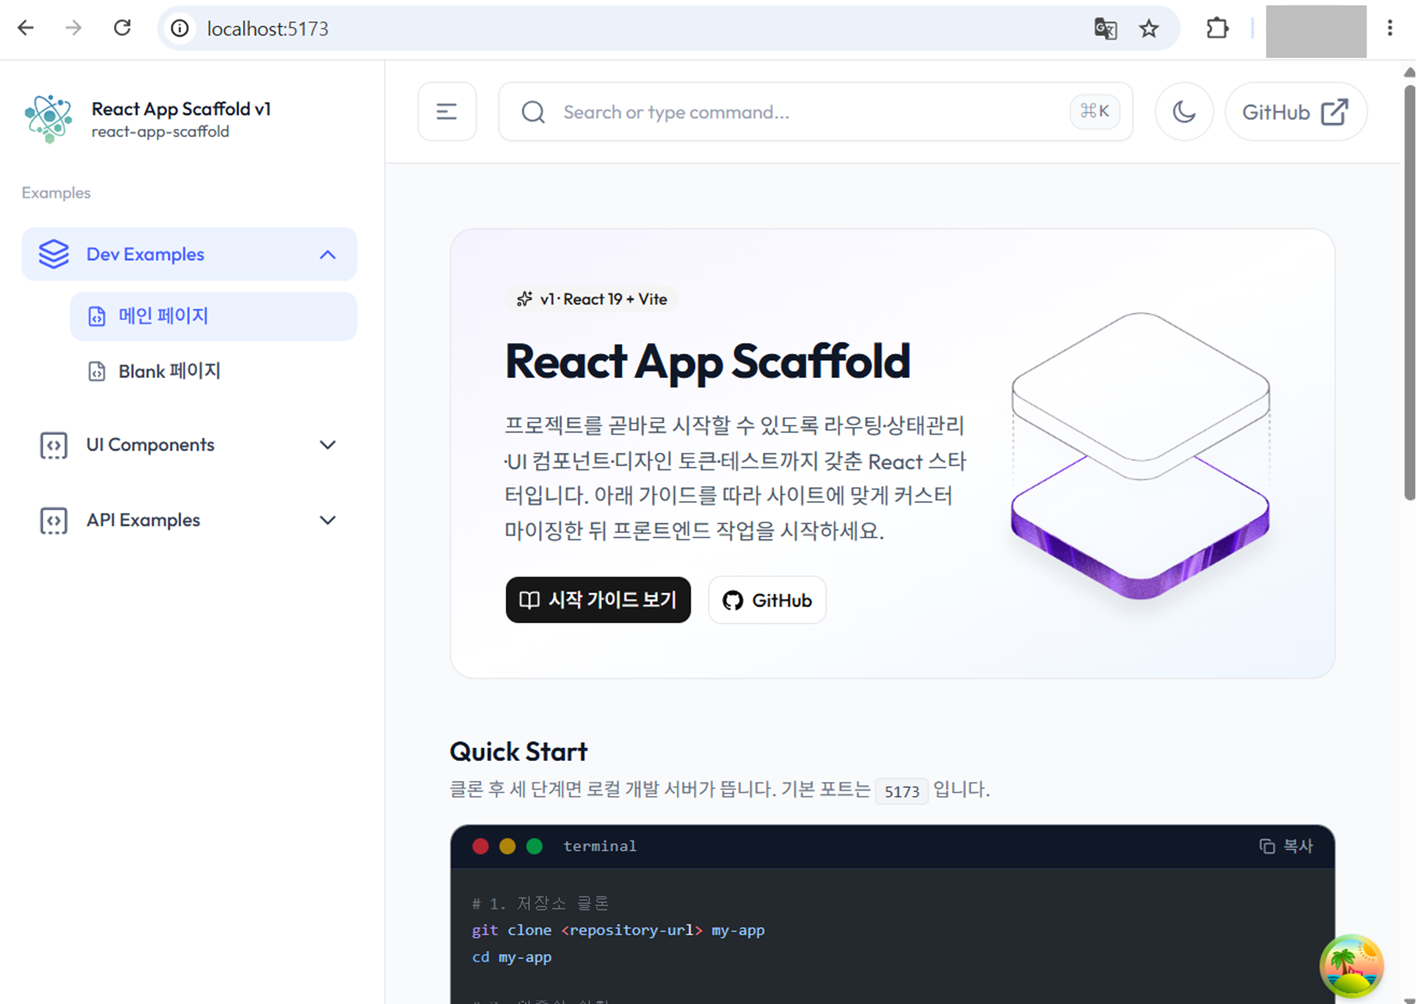
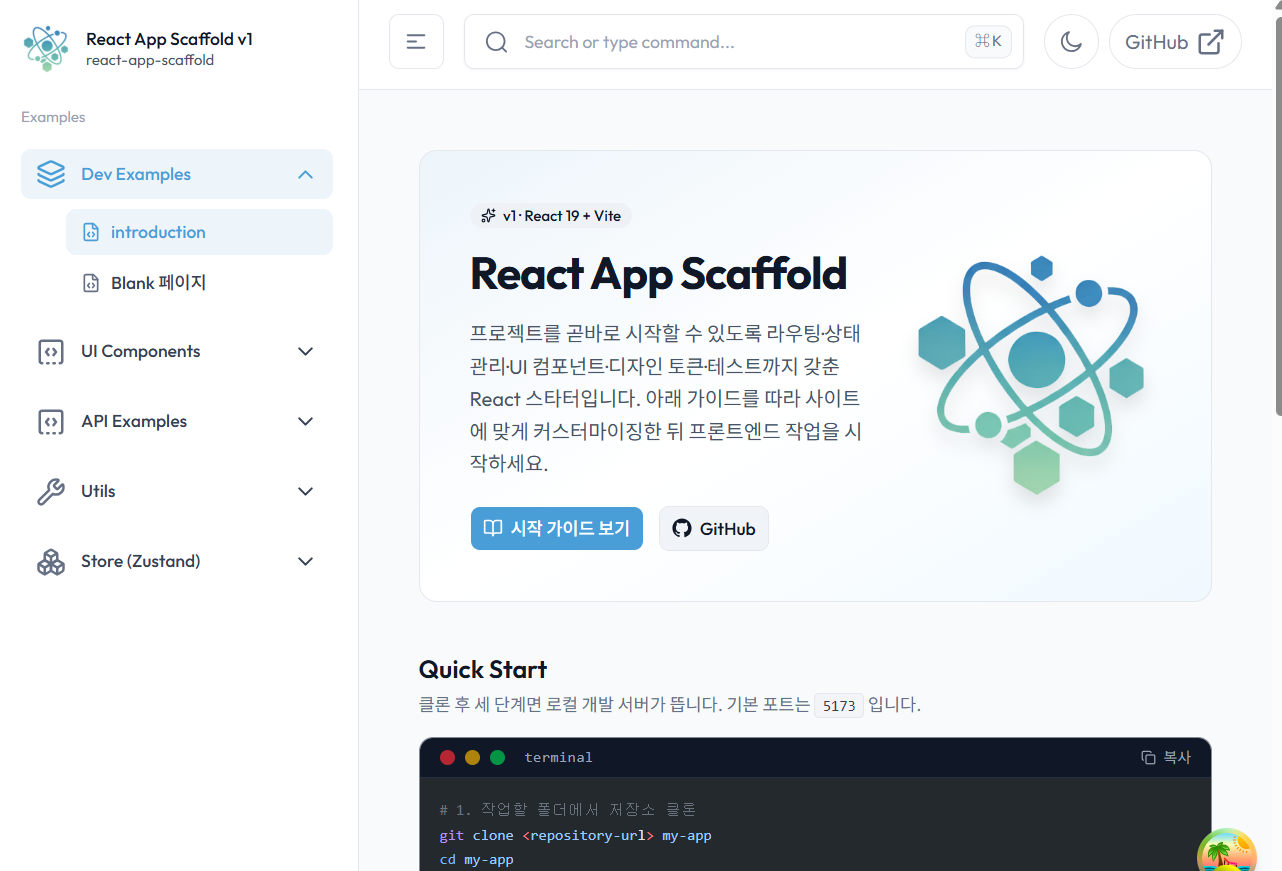
설정파일 분리 및 개발환경구성 페이지 수정

diff --git a/src/config/site-config.ts b/src/config/site-config.ts
@@ -11,10 +11,10 @@
  *   3) 문서에서 <Var k="키이름" /> 으로 참조하면 됩니다.
  */
 
-export type SiteConfigKey = 'siteName' | 'fileServerPath';
+export type SiteConfigKey = "siteName" | "fileServerPath" | "gitRepoUrl";
 
 /** 값의 성격. 렌더링 방식(링크/코드/복사버튼)을 결정합니다. */
-export type SiteConfigFieldKind = 'text' | 'path' | 'url';
+export type SiteConfigFieldKind = "text" | "path" | "url";
 
 export interface SiteConfigField {
   key: SiteConfigKey;
@@ -31,28 +31,37 @@ export interface SiteConfigField {
 
 export const SITE_CONFIG_FIELDS: SiteConfigField[] = [
   {
-    key: 'siteName',
-    label: '사이트 명',
-    description: '이 가이드가 배포된 프로젝트(현장) 이름',
-    kind: 'text',
+    key: "siteName",
+    label: "사이트 명",
+    description: "이 가이드가 배포된 프로젝트(현장) 이름",
+    kind: "text",
     required: false,
-    placeholder: '(사이트 미설정)',
+    placeholder: "(사이트 미설정)",
   },
   {
-    key: 'fileServerPath',
-    label: '설치파일 제공 경로',
+    key: "fileServerPath",
+    label: "설치파일 제공 경로",
     description:
-      'Node.js / Git / VSCode / Chrome 등 오프라인 설치 파일이 올라가 있는 파일서버 경로',
-    kind: 'path',
+      "Node.js / Git / VSCode / Chrome 등 오프라인 설치 파일이 올라가 있는 파일서버 경로",
+    kind: "path",
     required: true,
-    placeholder: '/aaaa/bbbbb/Frontend',
+    placeholder: "/aaaa/bbbbb/Frontend",
+  },
+  {
+    key: "gitRepoUrl",
+    label: "Git 레포지토리 주소",
+    description:
+      "개발 코드를 내려받는 Git 저장소 주소. 폐쇄망에서는 사내 GitLab 등 내부 주소로 교체합니다.",
+    kind: "url",
+    required: true,
+    placeholder: "Scaffold 레포지토리 주소",
   },
 ];
 
 export type SiteConfigValues = Record<SiteConfigKey, string>;
 
 /** static/ 하위에 배포되는 런타임 설정 파일 이름 */
-export const SITE_CONFIG_FILENAME = 'site-config.json';
+export const SITE_CONFIG_FILENAME = "site-config.json";
 
 /** site-config.json 을 읽기 전(또는 읽기 실패 시) 사용하는 기본값 */
 export const DEFAULT_SITE_CONFIG: SiteConfigValues = SITE_CONFIG_FIELDS.reduce(
@@ -71,8 +80,8 @@ export function getSiteConfigField(
 
 /** 비어 있거나 배포 직후 기본값 그대로면 "아직 현장 값이 안 들어온 것"으로 봅니다. */
 export function isUnsetValue(field: SiteConfigField, value: string): boolean {
-  const trimmed = (value ?? '').trim();
-  return trimmed === '' || trimmed === field.placeholder;
+  const trimmed = (value ?? "").trim();
+  return trimmed === "" || trimmed === field.placeholder;
 }
 
 /**
@@ -81,15 +90,15 @@ export function isUnsetValue(field: SiteConfigField, value: string): boolean {
  * 화면이 깨지지 않고 기본값으로 표시됩니다.
  */
 export function mergeSiteConfig(raw: unknown): SiteConfigValues {
-  const merged: SiteConfigValues = {...DEFAULT_SITE_CONFIG};
-  if (!raw || typeof raw !== 'object') {
+  const merged: SiteConfigValues = { ...DEFAULT_SITE_CONFIG };
+  if (!raw || typeof raw !== "object") {
     return merged;
   }
 
   const source = raw as Record<string, unknown>;
   SITE_CONFIG_FIELDS.forEach((field) => {
     const value = source[field.key];
-    if (typeof value === 'string' && value.trim() !== '') {
+    if (typeof value === "string" && value.trim() !== "") {
       merged[field.key] = value.trim();
     }
   });

diff --git a/docs/started/getting-started/set-dev-env-config.md b/docs/started/getting-started/set-dev-env-config.md
@@ -53,84 +53,11 @@ Git사용을 위하여 설치합니다.
   - Git 설치 파일을 파일서버에서 제공하므로 <Var k="fileServerPath" /> 위치에서 다운로드 받아 설치 합니다.
   - Git 설치 파일 : `Git-2.53.0.2-64-bit.exe`
 
-## pnpm workspaces 설치 (필요시에만)
-
----
-
-- **모노레포** 구조의 마이크로 프론트엔드 프로젝트 환경에서 각 업무(remote app)영역을 독립적으로 개발하고 배포할 수 있게 해주는 도구입니다.
-  - 상황에 따라 멀티레포 환경의 각 remote 앱 내부에서 하이브리드 형태의 모노레포 구조를 사용할 때 필요할 수 있습니다.
-
-:::info <span class="admonition-title">pnpm workspaces</span>란?
-**pnpm workspaces**는 하나의 코드 저장소(Repository) 안에서 **여러 개의 독립적인 프로젝트(패키지)를 효율적으로 관리**할 수 있게 해주는 도구입니다.
-
-일반적인 프로젝트라면 각 폴더마다 node_modules가 생기고 중복된 라이브러리가 설치되겠지만, pnpm은 이를 하나로 묶어 관리하면서도 각 프로젝트가 독립성을 유지하게 돕습니다.
-
----
-
-#### pnpm Workspaces와 함께 모노레포에 도움이 되는 도구들
-
-    * **Lerna**: Lerna: https://github.com/lerna/lerna
-    * **Nx**: Nx: https://nx.dev/
-    * **Turborepo**: Turborepo: https://turbo.build/
-    * **Pnpm**: Pnpm: https://pnpm.io/
-    * **Yarn**: Yarn: https://yarnpkg.com/
-    * **Bun**: Bun: https://bun.sh/
-    * **npm**: npm: https://www.npmjs.com/
-
-:::
-
-### 1. pnpm 온라인 설치
-
-먼저 **pnpm**을 사용하기 위하여 전역으로 설치합니다.
-
-```sh
-# npm을 통한 설치
-npm install -g pnpm
-
-# 또는 standalone 설치 (권장)
-curl -fsSL https://get.pnpm.io/install.sh | sh -
-
-# 설치 확인
-pnpm --version
-```
-
-- 만약 위와같이 **pnpm**을 설치했는데 `pnpm` 명령어가 실행이 되지않고 오류가 발생한다면, PATH에 npm 경로가 등록 되어있지 않았을 수도 있습니다. 따라서 다음과 같이 PATH에 npm 경로를 등록합니다.
-  - **1.** 시스템 환경 변수 열기
-  - **2.** Win + R → sysdm.cpl 입력 → Enter, 또는: 설정 → 시스템 → 정보 → 고급 시스템 설정
-  - **3.** 환경 변수 버튼 클릭
-  - **4.** 사용자 변수에서 Path 선택 → 편집
-  - **5.** 새로 만들기 → C:\Users\PC_NIC\AppData\Roaming\npm 입력 → 확인 (개인마다 npm 경로가 다를 수 있으니 확인하고 입력합니다.)
-  - **6.** 열려 있는 터미널/VS Code/Cursor를 모두 닫았다가 다시 열기
-  - **7.** 새 터미널에서 pnpm -v 실행해 확인
-
-### 2. pnpm 오프라인 설치
-
-- **1. pnpm 설치**
-  ```bash
-  # pnpm-win-x64.exe를 원하는 경로에 복사 후 PATH 등록
-  # 예: C:\pnpm\pnpm.exe 로 복사하고 환경변수 PATH에 C:\pnpm 추가
-  ```
-- **2. store 복사**
-  ```bash
-  # 온라인 PC와 동일한 경로에 store 폴더 붙여넣기
-  # 예: C:\Users\사용자명\AppData\Local\pnpm\store
-  ```
-- **3. 오프라인으로 패키지 설치**
-  ```bash
-  # cd 프로젝트_루트
-  # pnpm install --offline
-  ```
-
-  - store 경로가 다를 경우
-  ```bash
-  pnpm install --offline --store-dir C:\복사한\store\경로
-  ```
-
 ## Visual Studio Code 설치
 
 ---
 
-**Vue Frontend** 개발을 위한 Microsoft사에서 만든 개발용 코드 편집기입니다.
+**Frontend** 개발을 위한 Microsoft사에서 만든 개발용 코드 편집기입니다.
 
 - 온라인 설치
   - [설치링크:(https://code.visualstudio.com/Download)](https://code.visualstudio.com/Download)
@@ -181,25 +108,6 @@ VSCode에서 사용할 수 있는 <span class="text-color-red">필수</span> 또
 - 설치가 완료 되고 오른쪽 하단에 아래와 같이 팝업이 뜨면 성공.
   ![VSCode Extension온라인 설치](../assets/config/vscode_et03.png)
 
-## Axiom AI 확장 설치
-
----
-
-**react-app-scaffold** 프로젝트 작업에 도움을 주는 **Axiom AI** 확장을 설치합니다.
-
-- 오프라인 설치
-  - 설치용 **VSIX** 파일을 따로 제공합니다. <Var k="fileServerPath" /> 위치에서 다운로드 받아 설치합니다.
-
-## Cursor 설치 (선택)
-
----
-
-만약 Cursor를 사용한다면 VSCode와 거의 유사해서 문제없이 사용 가능합니다.
-
-- [Cursor 설치 링크](https://cursor.com/download)
-
-- Cursor설치 후 우측 메뉴를 좌측으로 이동을 원할 때 다음과 같이 해당 값을 비활성화 합니다.
-  ![Cursor 메뉴설정관련](../assets/config/cursor01.png)
 
 ## Chrome Browser 설치
 
@@ -227,7 +135,7 @@ React를 사용할 때, React 앱을 보다 더 사용자 친화적인 인터페
     - LET’S START버튼을 누르고, 입력란에 Extension파일 경로를 입력하고 crx파일 다운로드를 받는다. */}
     - crx파일이 있으면 chrome브라우저에서 chrome://extensions를 입력하고 해당 브라우저에 crx파일을 드래그앤드롭하면 extension설치가 된다.
 
-## Redux DevTools 설치 (크롬 브라우저 확장 프로그램)(필요시에만)
+## Redux DevTools 설치 (크롬 브라우저 확장 프로그램)
 
 ---
 
@@ -240,7 +148,7 @@ React에서 사용하는 상태 관리 라이브러리 Redux의 상태 변경을
     - LET’S START버튼을 누르고, 입력란에 Extension파일 경로를 입력하고 crx파일 다운로드를 받는다. */}
     - crx파일이 있으면 chrome브라우저에서 chrome://extensions를 입력하고 해당 브라우저에 crx파일을 드래그앤드롭하면 extension설치가 된다.
 
-## TanStack Query(React Query) DevTools 설치 (크롬 브라우저 확장 프로그램)(필요시에만)
+## TanStack Query(React Query) DevTools 설치 (크롬 브라우저 확장 프로그램)
 
 ---
 
@@ -264,7 +172,6 @@ React에서 사용하는 상태 관리 라이브러리 TanStack Query의 상태 
   ![VSCode Extension온라인 설치](../assets/config/vscode_et04.png)
 
 ## Visual Studio Code (VSCode) 코드편집기 설정
-
 ---
 
 - **settings.json 가 세팅되어있지 않은 경우에만 설정합니다.**
@@ -383,7 +290,7 @@ React에서 사용하는 상태 관리 라이브러리 TanStack Query의 상태 
 
 :::info <span class="admonition-title">Git 레포지토리</span> url
 
-- [https://github.com/nic-company-single-react/react-app-scaffold](https://github.com/nic-company-single-react/react-app-scaffold)
+- <Var k="gitRepoUrl" />
 - 개발 코드를 내려받기 위해서는 계정 및 권한이 필요합니다. (해당 권한은 담당자에게 요청)
 
 :::
@@ -398,10 +305,11 @@ React에서 사용하는 상태 관리 라이브러리 TanStack Query의 상태 
   # C:\my\frontend-app 폴더가 생성 됨.
   ```
 - 생성한 **frontend-app** 폴더로 이동하여 `git clone`을 실행하여 **react-app-scaffold** 코드를 내려 받습니다.
+  내려받을 주소는 <Var k="gitRepoUrl" /> 입니다.
 
   ```sh
   # 애플리케이션 레포지토리에서 코드를 내려받습니다.
-  git clone https://github.com/nic-company-single-react/react-app-scaffold.git
+  git clone [Scaffold 레포지토리 주소]
   ```
 
 - `git clone`하여 내려받은 소스를 확인해보면 아직 **node_modules**폴더가 없는상태입니다. 의존성 라이브러리를 설치면 **node_modules**폴더를 자동생성합니다.
